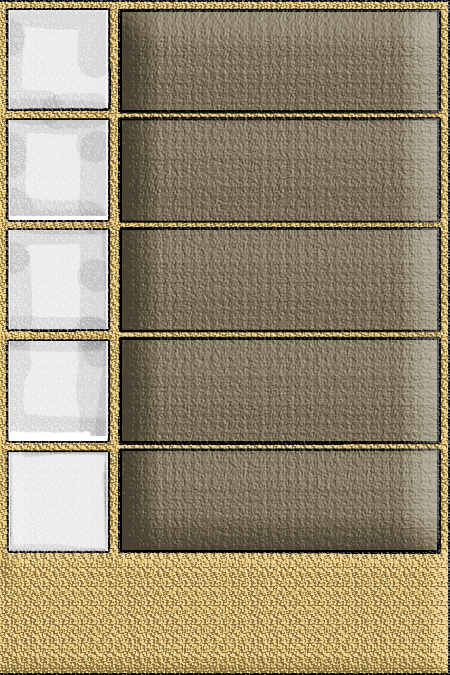
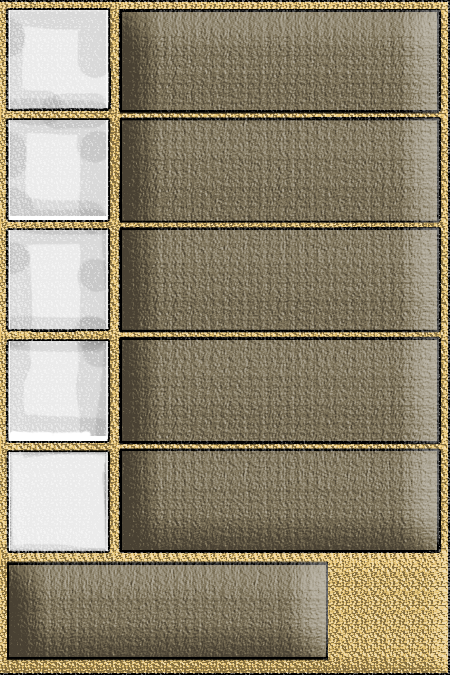
initial commit

Changed region(s): [[0.0, 0.8089, 0.7467, 0.9956], [0.2489, 0.1556, 0.28, 0.3111], [0.3111, 0.1556, 0.3422, 0.1867]]

diff --git a/Farm Clicker/farm_clicker.py b/Farm Clicker/farm_clicker.py
@@ -9,12 +9,13 @@ SCREEN_HEIGHT = 675
 FPS = 60
 
 screen = pygame.display.set_mode((SCREEN_WIDTH, SCREEN_HEIGHT))
-pygame.display.set_caption("Простой кликер")
+pygame.display.set_caption("Супермегакрутой кликер")
 bg = pygame.image.load("bg.jpg")
 bg = pygame.transform.scale(bg, (SCREEN_WIDTH, SCREEN_HEIGHT))
 screen.blit(bg, (0, 0))
+pygame.display.set_icon(pygame.image.load("icon.png"))
 
-money = 0
+money = 999999999999
 house1_count = 1
 house1_earnings = 1
 house1_curprice = 5
@@ -30,6 +31,9 @@ house4_curprice = 14000
 house5_count = 0
 house5_earnings = 0
 house5_curprice = 200000
+sword_count = 0
+sword_click = 1
+sword_curprice = 1000
 
 housex1 = 1
 
@@ -45,13 +49,23 @@ image2 = pygame.image.load("farm (3).png")
 image3 = pygame.image.load("farm (4).png")
 image4 = pygame.image.load("farm (5).png")
 image5 = pygame.image.load("farm (6).png")
+sword1 = pygame.image.load("sword1.png")
+sword2 = pygame.image.load("sword2.png")
+sword3 = pygame.image.load("sword3.png")
+sword4 = pygame.image.load("sword4.png")
 coin_image = pygame.image.load("coin.png")
+upgrade_icon = pygame.image.load("upgrade_icon.png")
 
 image1 = pygame.transform.scale(image1, (BUTTON_WIDTH, BUTTON_HEIGHT))
 image2 = pygame.transform.scale(image2, (BUTTON_WIDTH, BUTTON_HEIGHT))
 image3 = pygame.transform.scale(image3, (BUTTON_WIDTH, BUTTON_HEIGHT))
 image4 = pygame.transform.scale(image4, (BUTTON_WIDTH, BUTTON_HEIGHT))
 image5 = pygame.transform.scale(image5, (BUTTON_WIDTH, BUTTON_HEIGHT))
+sword1 = pygame.transform.scale(sword1, (BUTTON_WIDTH, BUTTON_HEIGHT))
+sword2 = pygame.transform.scale(sword2, (BUTTON_WIDTH, BUTTON_HEIGHT))
+sword3 = pygame.transform.scale(sword3, (BUTTON_WIDTH, BUTTON_HEIGHT))
+sword4 = pygame.transform.scale(sword4, (BUTTON_WIDTH, BUTTON_HEIGHT))
+upgrade_icon = pygame.transform.scale(upgrade_icon, (BUTTON_WIDTH, BUTTON_HEIGHT))
 
 coin_image = pygame.transform.scale(coin_image, (50, 50))
 coin_bg = pygame.transform.scale(coin_bg, (500, 50))
@@ -65,7 +79,7 @@ button_rect2 = pygame.Rect(8, 120, BUTTON_WIDTH, BUTTON_HEIGHT)
 button_rect3 = pygame.Rect(8, 230, BUTTON_WIDTH, BUTTON_HEIGHT)
 button_rect4 = pygame.Rect(8, 341, BUTTON_WIDTH, BUTTON_HEIGHT)
 button_rect5 = pygame.Rect(8, 452, BUTTON_WIDTH, BUTTON_HEIGHT)
-button_rect6 = pygame.Rect(300, 560, BUTTON_WIDTH, BUTTON_HEIGHT)
+sword = pygame.Rect(335, 560, BUTTON_WIDTH, BUTTON_HEIGHT)
 
 #Настройка окантовки
 border_color = (110, 88, 22)
@@ -92,6 +106,12 @@ house1_label_border12 = font.render(f"Стоимость: {house4_curprice:.0f}"
 house1_label_border13 = font.render(f"Кол-во: {house5_count}", True, border_color)
 house1_label_border14 = font.render(f"Сум. добыча: {house5_earnings:.1f}", True, border_color)
 house1_label_border15 = font.render(f"Стоимость: {house5_curprice:.0f}", True, border_color)
+###################################################################################################
+sword_label_border1 = font.render(f"Уровень: {sword_count}", True, border_color)
+sword_label_border2 = font.render(f"Cум. клик: {sword_click}", True, border_color)
+sword_label_border3 = font.render(f"Стоимость: {sword_curprice}", True, border_color)
+###################################################################################################
+###################################################################################################
 
 #Прописываем текст к кнопкам
 house1_label1 = font.render(f"Кол-во: {house1_count}", True, (241, 221, 56))
@@ -114,6 +134,9 @@ house5_label1 = font.render(f"Кол-во: {house5_count}", True, (241, 221, 56)
 house5_label2 = font.render(f"Сум. добыча: {house5_earnings:.1f}", True, (241, 221, 56))
 house5_label3 = font.render(f"Стоимость: {house5_curprice:.0f}", True, (241, 221, 56))
 ###################################################################################################
+sword_label1 = font.render(f"Уровень: {sword_count}", True, (241, 221, 56))
+sword_label2 = font.render(f"Cум. клик: {sword_click:}", True, (241, 221, 56))
+sword_label3 = font.render(f"Стоимость: {sword_curprice:}", True, (241, 221, 56))
 ###################################################################################################
 ###################################################################################################
 upgrade1_1 = pygame.Rect(337, 1000, BUTTON_WIDTH, BUTTON_HEIGHT)
@@ -124,10 +147,18 @@ def update_all():
     screen.blit(image3, button_rect3)
     screen.blit(image4, button_rect4)
     screen.blit(image5, button_rect5)
-    screen.blit(image5, button_rect6)
+    screen.blit(upgrade_icon, sword)
+    screen.blit(image5, upgrade1_1)
+    screen.blit(image1, upgrade1_2)
     screen.blit(coin_bg, (SCREEN_WIDTH // 1.6, 10))
     screen.blit(coin_image, (SCREEN_WIDTH // 1.6, 10))
     screen.blit(text, (SCREEN_WIDTH // 1.6 + 60, 26))
+    screen.blit(sword_label_border1, (sword.x - 307, sword.y + 17))
+    screen.blit(sword_label1, (sword.x - 309, sword.y + 15))
+    screen.blit(sword_label_border2, (sword.x - 307, sword.y + 47))
+    screen.blit(sword_label2, (sword.x - 309, sword.y + 45))
+    screen.blit(sword_label_border3, (sword.x - 307, sword.y + 77))
+    screen.blit(sword_label3, (sword.x - 309, sword.y + 75))
     screen.blit(house1_label_border1, (button_rect1.x + 129 - border_size, button_rect1.y + 14 - border_size))
     screen.blit(house1_label1, (button_rect1.x + 125, button_rect1.y + 10))
     screen.blit(house1_label_border2, (button_rect1.x + 129 - border_size, button_rect1.y + 44 - border_size))
@@ -158,39 +189,60 @@ def update_all():
     screen.blit(house5_label2, (button_rect5.x + 125, button_rect5.y + 40))
     screen.blit(house1_label_border15, (button_rect5.x + 129 - border_size, button_rect5.y + 74 - border_size))
     screen.blit(house5_label3, (button_rect5.x + 125, button_rect5.y + 70))
-def update2():
-    screen.blit(image5, upgrade1_1)
-def update3():
-    screen.blit(image1, upgrade1_2)
+
 def auto_click():
+    global sword_label1
+    global sword_label2
+    global sword_label3
     global farm_bg
     global money
     global text
     global housex1
     global upgrade1_2
     global upgrade1_1
+    global sword
+    global sword_count
+    global swordx
+    global sword_label_border1
+    global sword_label_border2
+    global sword_label_border3
     money += house1_earnings+house2_earnings+house3_earnings+house4_earnings+house5_earnings
     screen.blit(farm_bg, (0, 0))
     text = font.render(("%.0f" % money), True, (241, 221, 56))
     update_all()
+    sword_label_border1 = font.render(f"Уровень: {sword_count}", True, border_color)
+    sword_label_border2 = font.render(f"Cум. клик: {sword_click}", True, border_color)
+    sword_label_border3 = font.render(f"Стоимость: {sword_curprice}", True, border_color)
+    sword_label1 = font.render(f"Уровень: {sword_count}", True, (241, 221, 56))
+    sword_label2 = font.render(f"Cум. клик: {sword_click}", True, (241, 221, 56))
+    sword_label3 = font.render(f"Стоимость: {sword_curprice}", True, (241, 221, 56))
+    if sword_count >= 3:
+        sword_label_border1 = font.render(f"Уровень: Макс.", True, border_color)
+        sword_label_border2 = font.render(f"Cум. клик: {sword_click}", True, border_color)
+        sword_label_border3 = font.render(f"Стоимость: Макс.", True, border_color)
+        sword_label1 = font.render(f"Уровень: Макс.", True, (241, 221, 56))
+        sword_label2 = font.render(f"Cум. клик: {sword_click}", True, (241, 221, 56))
+        sword_label3 = font.render(f"Стоимость: Макс.", True, (241, 221, 56))
     if house1_count >= 5:
         if housex1 >= 5:
             update_all()
         else:
-            update2()
             upgrade1_1 = pygame.Rect(337, 11, BUTTON_WIDTH, BUTTON_HEIGHT)
     if house1_count >= 10 and housex1 == 5:
         if housex1 >= 25:
             update_all()
         else:
-            update3()
             upgrade1_2 = pygame.Rect(337, 11, BUTTON_WIDTH, BUTTON_HEIGHT)
+    if sword_count == 0:
+        screen.blit(sword1, sword)
+    elif sword_count == 1:
+        screen.blit(sword2, sword)
+    elif sword_count == 2:
+        screen.blit(sword3, sword)
+    elif sword_count >= 3:
+        screen.blit(sword4, sword)
     Timer(1, auto_click).start()
     print(housex1)
-
-def click():
-    global money
-    money += 1000
 
 def upgrade():
     global house1_label2
@@ -199,8 +251,9 @@ def upgrade():
     global housex1
     house1_earnings *= 5
     housex1 *= 5
-    house1_label2 = font.render(f"Сум. добыча: {house1_earnings:.1f}", True, (241, 221, 56))
-    house1_label_border2 = font.render(f"Сум. добыча: {house1_earnings:.1f}", True, border_color)
+    house1_label2 = font.render(f"Сум. добыча: {house1_earnings}", True, (241, 221, 56))
+    house1_label_border2 = font.render(f"Сум. добыча: {house1_earnings}", True, border_color)
+    update_all()
 
 auto_click()
 running = True
@@ -209,6 +262,8 @@ while running:
         if event.type == pygame.QUIT:
             running = False
         elif event.type == pygame .MOUSEBUTTONDOWN and event.button == 1:
+            ##################
+            ### КНОПКИ 1-5 ###
             if button_rect1.collidepoint(event.pos):
                 print("Кнопка 1 нажата!")
                 if money >= house1_curprice:
@@ -217,12 +272,12 @@ while running:
                     house1_earnings += 1 * housex1
                     house1_curprice *= 2
                     screen.blit(farm_bg, (0, 0))
-                    house1_label1 = font.render(f"Кол-во: {house1_count}", True, (241, 221, 56))
-                    house1_label2 = font.render(f"Сум. добыча: {house1_earnings:.1f}", True, (241, 221, 56))
-                    house1_label3 = font.render(f"Стоимость: {house1_curprice:.0f}", True, (241, 221, 56))
                     house1_label_border1 = font.render(f"Кол-во: {house1_count}", True, border_color)
                     house1_label_border2 = font.render(f"Сум. добыча: {house1_earnings:.1f}", True, border_color)
                     house1_label_border3 = font.render(f"Стоимость: {house1_curprice:.0f}", True, border_color)
+                    house1_label1 = font.render(f"Кол-во: {house1_count}", True, (241, 221, 56))
+                    house1_label2 = font.render(f"Сум. добыча: {house1_earnings:.1f}", True, (241, 221, 56))
+                    house1_label3 = font.render(f"Стоимость: {house1_curprice:.0f}", True, (241, 221, 56))
                     text = font.render(COINS_LABEL, True, (241, 221, 56))
                     coin_border = font.render(COINS_LABEL, True, (110, 88, 22))
                     update_all()
@@ -234,12 +289,12 @@ while running:
                     house2_earnings += 14
                     house2_curprice *= 2
                     screen.blit(farm_bg, (0, 0))
-                    house2_label1 = font.render(f"Кол-во: {house2_count}", True, (241, 221, 56))
-                    house2_label2 = font.render(f"Сум. добыча: {house2_earnings:.1f}", True, (241, 221, 56))
-                    house2_label3 = font.render(f"Стоимость: {house2_curprice:.0f}", True, (241, 221, 56))
                     house2_label_border1 = font.render(f"Кол-во: {house2_count}", True, border_color)
                     house2_label_border2 = font.render(f"Сум. добыча: {house2_earnings:.1f}", True, border_color)
                     house2_label_border3 = font.render(f"Стоимость: {house2_curprice:.0f}", True, border_color)
+                    house2_label1 = font.render(f"Кол-во: {house2_count}", True, (241, 221, 56))
+                    house2_label2 = font.render(f"Сум. добыча: {house2_earnings:.1f}", True, (241, 221, 56))
+                    house2_label3 = font.render(f"Стоимость: {house2_curprice:.0f}", True, (241, 221, 56))
                     text = font.render(COINS_LABEL, True, (241, 221, 56))
                     coin_border = font.render(COINS_LABEL, True, (110, 88, 22))
                     update_all()
@@ -251,12 +306,12 @@ while running:
                     house3_earnings += 196
                     house3_curprice *= 2
                     screen.blit(farm_bg, (0, 0))
-                    house3_label1 = font.render(f"Кол-во: {house3_count}", True, (241, 221, 56))
-                    house3_label2 = font.render(f"Сум. добыча: {house3_earnings:.1f}", True, (241, 221, 56))
-                    house3_label3 = font.render(f"Стоимость: {house3_curprice:.0f}", True, (241, 221, 56))
                     house3_label_border1 = font.render(f"Кол-во: {house3_count}", True, border_color)
                     house3_label_border2 = font.render(f"Сум. добыча: {house3_earnings:.1f}", True, border_color)
                     house3_label_border3 = font.render(f"Стоимость: {house3_curprice:.0f}", True, border_color)
+                    house3_label1 = font.render(f"Кол-во: {house3_count}", True, (241, 221, 56))
+                    house3_label2 = font.render(f"Сум. добыча: {house3_earnings:.1f}", True, (241, 221, 56))
+                    house3_label3 = font.render(f"Стоимость: {house3_curprice:.0f}", True, (241, 221, 56))
                     text = font.render(COINS_LABEL, True, (241, 221, 56))
                     coin_border = font.render(COINS_LABEL, True, (110, 88, 22))
                     update_all()
@@ -268,12 +323,12 @@ while running:
                     house4_earnings += 2800
                     house4_curprice *= 2
                     screen.blit(farm_bg, (0, 0))
-                    house4_label1 = font.render(f"Кол-во: {house4_count}", True, (241, 221, 56))
-                    house4_label2 = font.render(f"Сум. добыча: {house4_earnings:.1f}", True, (241, 221, 56))
-                    house4_label3 = font.render(f"Стоимость: {house4_curprice:.0f}", True, (241, 221, 56))
                     house4_label_border1 = font.render(f"Кол-во: {house4_count}", True, border_color)
                     house4_label_border2 = font.render(f"Сум. добыча: {house4_earnings:.1f}", True, border_color)
                     house4_label_border3 = font.render(f"Стоимость: {house4_curprice:.0f}", True, border_color)
+                    house4_label1 = font.render(f"Кол-во: {house4_count}", True, (241, 221, 56))
+                    house4_label2 = font.render(f"Сум. добыча: {house4_earnings:.1f}", True, (241, 221, 56))
+                    house4_label3 = font.render(f"Стоимость: {house4_curprice:.0f}", True, (241, 221, 56))
                     text = font.render(COINS_LABEL, True, (241, 221, 56))
                     coin_border = font.render(COINS_LABEL, True, (110, 88, 22))
                     update_all()
@@ -285,18 +340,36 @@ while running:
                     house5_earnings += 39200
                     house5_curprice *= 2
                     screen.blit(farm_bg, (0, 0))
-                    house5_label1 = font.render(f"Кол-во: {house5_count}", True, (241, 221, 56))
-                    house5_label2 = font.render(f"Сум. добыча: {house5_earnings:.1f}", True, (241, 221, 56))
-                    house5_label3 = font.render(f"Стоимость: {house5_curprice:.0f}", True, (241, 221, 56))
                     house5_label_border1 = font.render(f"Кол-во: {house5_count}", True, border_color)
                     house5_label_border2 = font.render(f"Сум. добыча: {house5_earnings:.1f}", True, border_color)
                     house5_label_border3 = font.render(f"Стоимость: {house5_curprice:.0f}", True, border_color)
+                    house5_label1 = font.render(f"Кол-во: {house5_count}", True, (241, 221, 56))
+                    house5_label2 = font.render(f"Сум. добыча: {house5_earnings:.1f}", True, (241, 221, 56))
+                    house5_label3 = font.render(f"Стоимость: {house5_curprice:.0f}", True, (241, 221, 56))
                     text = font.render(COINS_LABEL, True, (241, 221, 56))
                     coin_border = font.render(COINS_LABEL, True, (110, 88, 22))
                     update_all()
-            elif button_rect6.collidepoint(event.pos):
-                click()
-                update_all()
+            ###################
+            ### КНОПКА МЕЧА ###
+            elif sword.collidepoint(event.pos):
+                money += sword_click
+                if money >= sword_curprice and sword_count == 0:
+                    money -= sword_curprice
+                    sword_click += 19
+                    sword_count = 1
+                    sword_curprice = 100000
+                elif money >= sword_curprice and sword_count == 1:
+                    money -= sword_curprice
+                    sword_click += 680
+                    sword_count = 2
+                    sword_curprice = 10000000
+                elif money >= sword_curprice and sword_count == 2:
+                    money -= sword_curprice
+                    sword_click += 49300
+                    sword_count = 3
+                    sword_curprice *= (9999 * 999)
+            ############################
+            ### КНОПКИ ПРОКАЧКИ ФЕРМ ###
             elif upgrade1_1.collidepoint(event.pos):
                 if money >= 200 and housex1 == 1:
                     money -= 200
